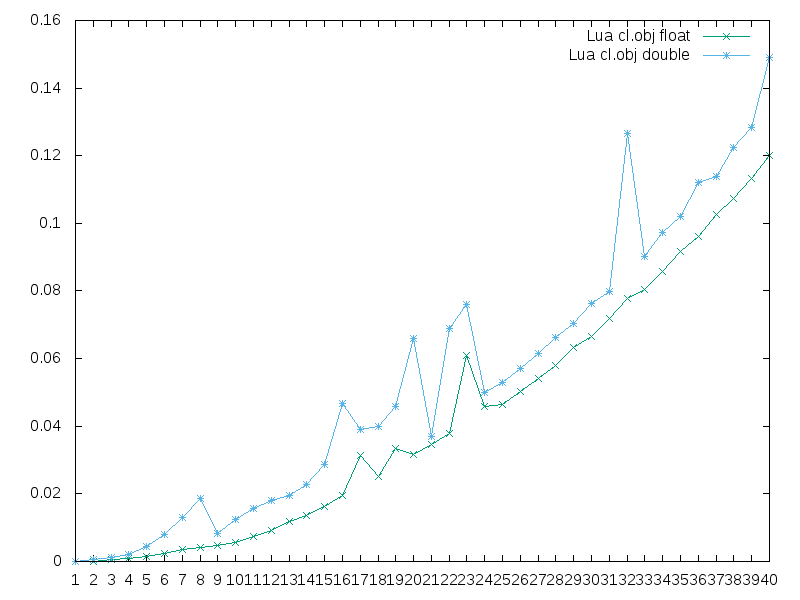
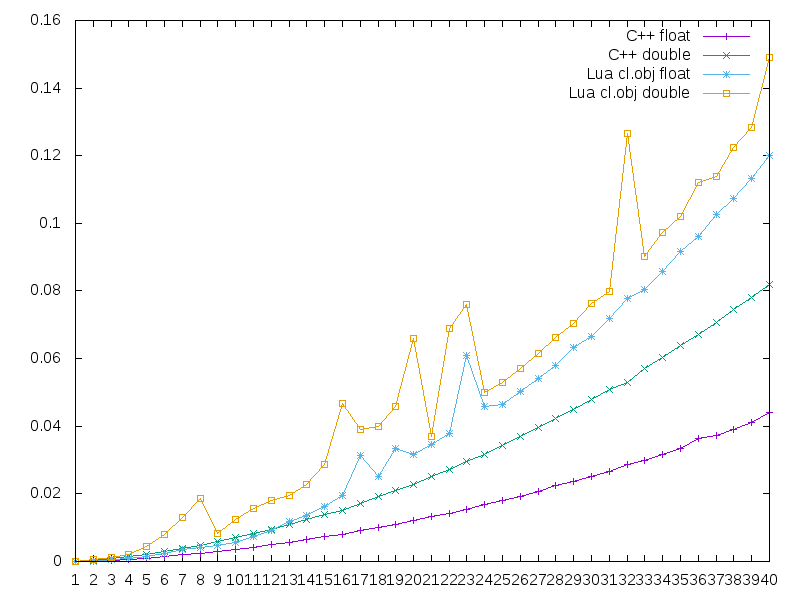
working on it more

diff --git a/src/main.cpp b/src/main.cpp
@@ -2,18 +2,24 @@
 #include <Common/File.h>
 #include <Common/Exception.h>
 #include <iostream>
+#include <algorithm>
+#include <vector>
+#include <string>
 
-int main() {
+template<typename real> struct RealStr;
+template<> struct RealStr<float> { static std::string getStr() { return "float"; } };
+template<> struct RealStr<double> { static std::string getStr() { return "double"; } };
+
+template<typename real>
+void test(CLCommon::CLCommon& clCommon) {
+	std::string realStr = RealStr<real>::getStr();
+
 	const int maxsamples = 50;
 	const int maxsize = 40;
 
-	CLCommon::CLCommon clCommon;
 	cl::Context ctx = clCommon.context;
 	cl::CommandQueue cmds = clCommon.commands;
 	cl::Device device = clCommon.device;
-
-	std::string realStr = "float";
-	typedef float real;
 
 	size_t gridsize = 256;
 	cl::NDRange globalSize(gridsize, gridsize);
@@ -21,7 +27,7 @@ int main() {
 	//TODO calculate this
 	cl::NDRange localSize(16, 16);
 	
-	std::ofstream f("out.cpp.txt");	
+	std::ofstream f(std::string() + "out.cpp." + realStr + ".txt");	
 
 	f << "#size	min	avg	max	times" << std::endl;
 
@@ -89,5 +95,44 @@ int main() {
 			f << "\t" << time;
 		}
 		f << std::endl;
+	}
+
+}
+
+bool checkHasFP64(const cl::Device& device) {
+	std::vector<std::string> extensions = CLCommon::getExtensions(device);
+	return std::find(extensions.begin(), extensions.end(), "cl_khr_fp64") != extensions.end();
+}
+
+int main(int argc, char** argv) {
+	bool use64 = true;
+	std::string realStr = (argc > 1) ? argv[1] : "float";
+	if (realStr == "float") use64 = false;
+
+	CLCommon::CLCommon clCommon(
+		/*verbose=*/false,
+		/*pickDevice=*/[&](const std::vector<cl::Device>& devices_) -> std::vector<cl::Device>::const_iterator {
+			std::vector<cl::Device> devices = devices_;
+			std::sort(
+				devices.begin(),
+				devices.end(),
+				[&](const cl::Device& a, const cl::Device& b) -> bool {
+					return checkHasFP64(a) > checkHasFP64(b);
+				});
+
+			cl::Device best = devices[0];
+			//return std::find<std::vector<cl::Device>::const_iterator, cl::Device>(devices_.begin(), devices_.end(), best);
+			for (std::vector<cl::Device>::const_iterator iter = devices_.begin(); iter != devices_.end(); ++iter) {
+				if ((*iter)() == best()) return iter;
+			}
+			throw Common::Exception() << "couldn't find a device";
+		});
+	
+	use64 &= checkHasFP64(clCommon.device);
+
+	if (use64) {
+		test<double>(clCommon);
+	} else {
+		test<float>(clCommon);
 	}
 }
